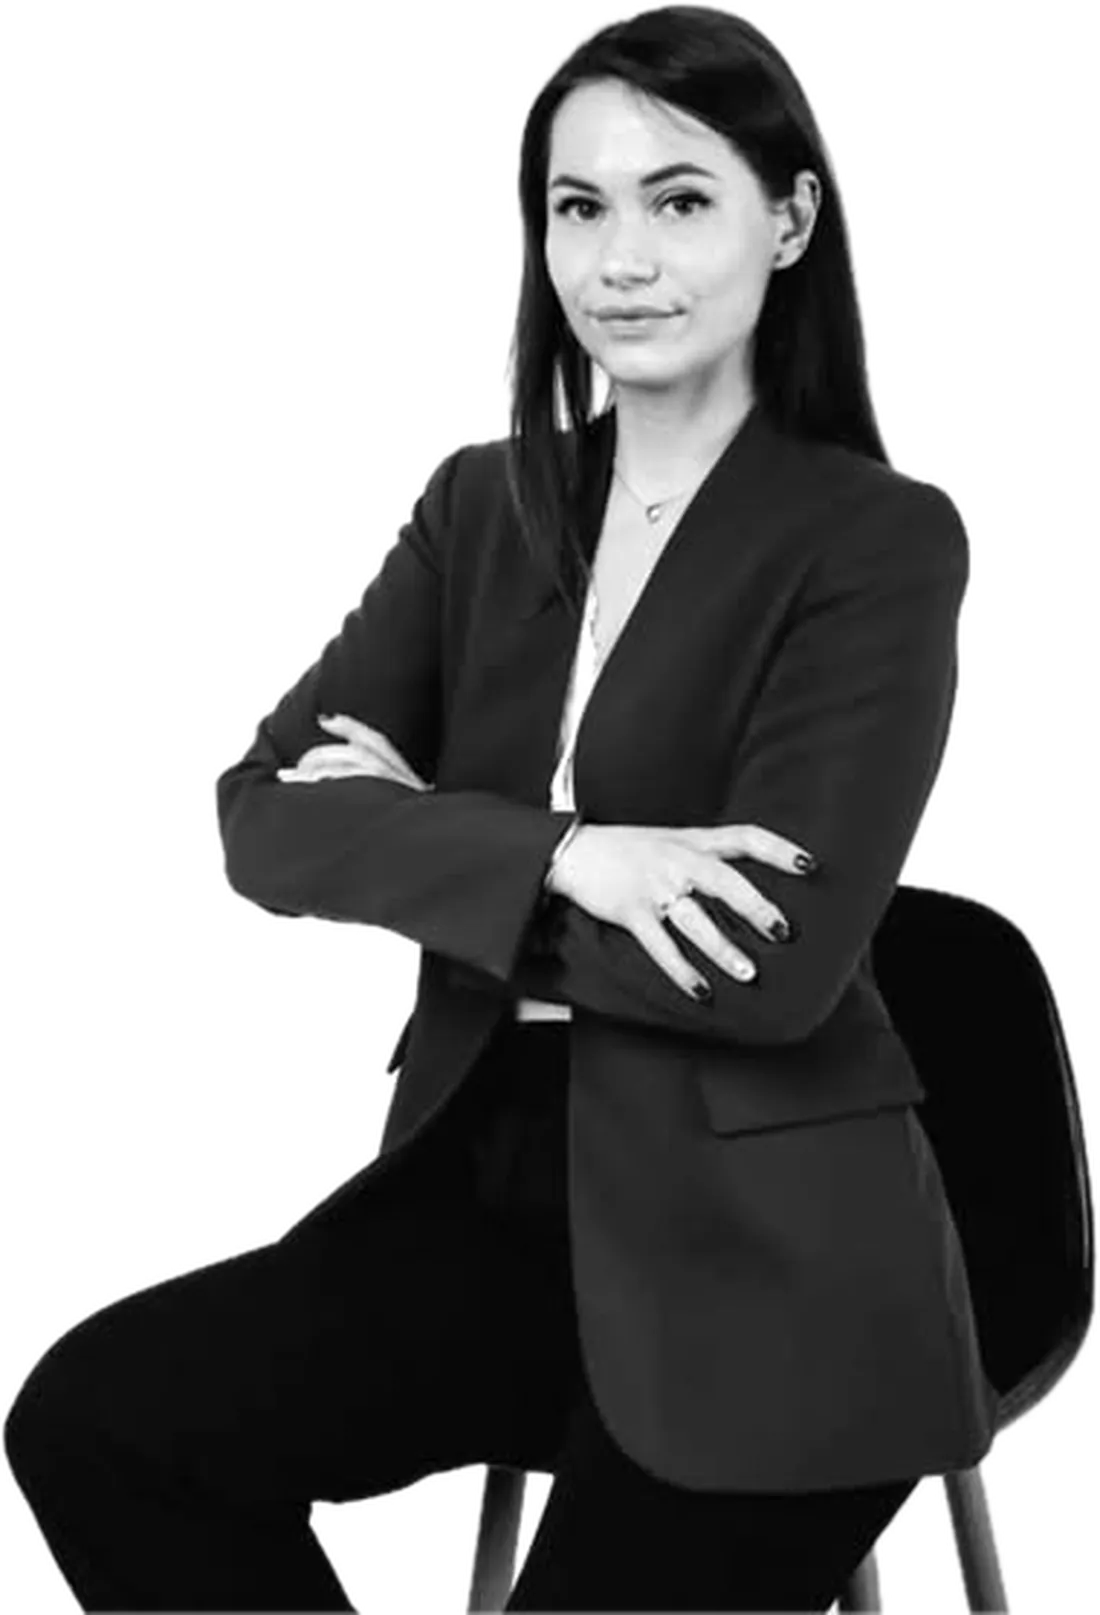
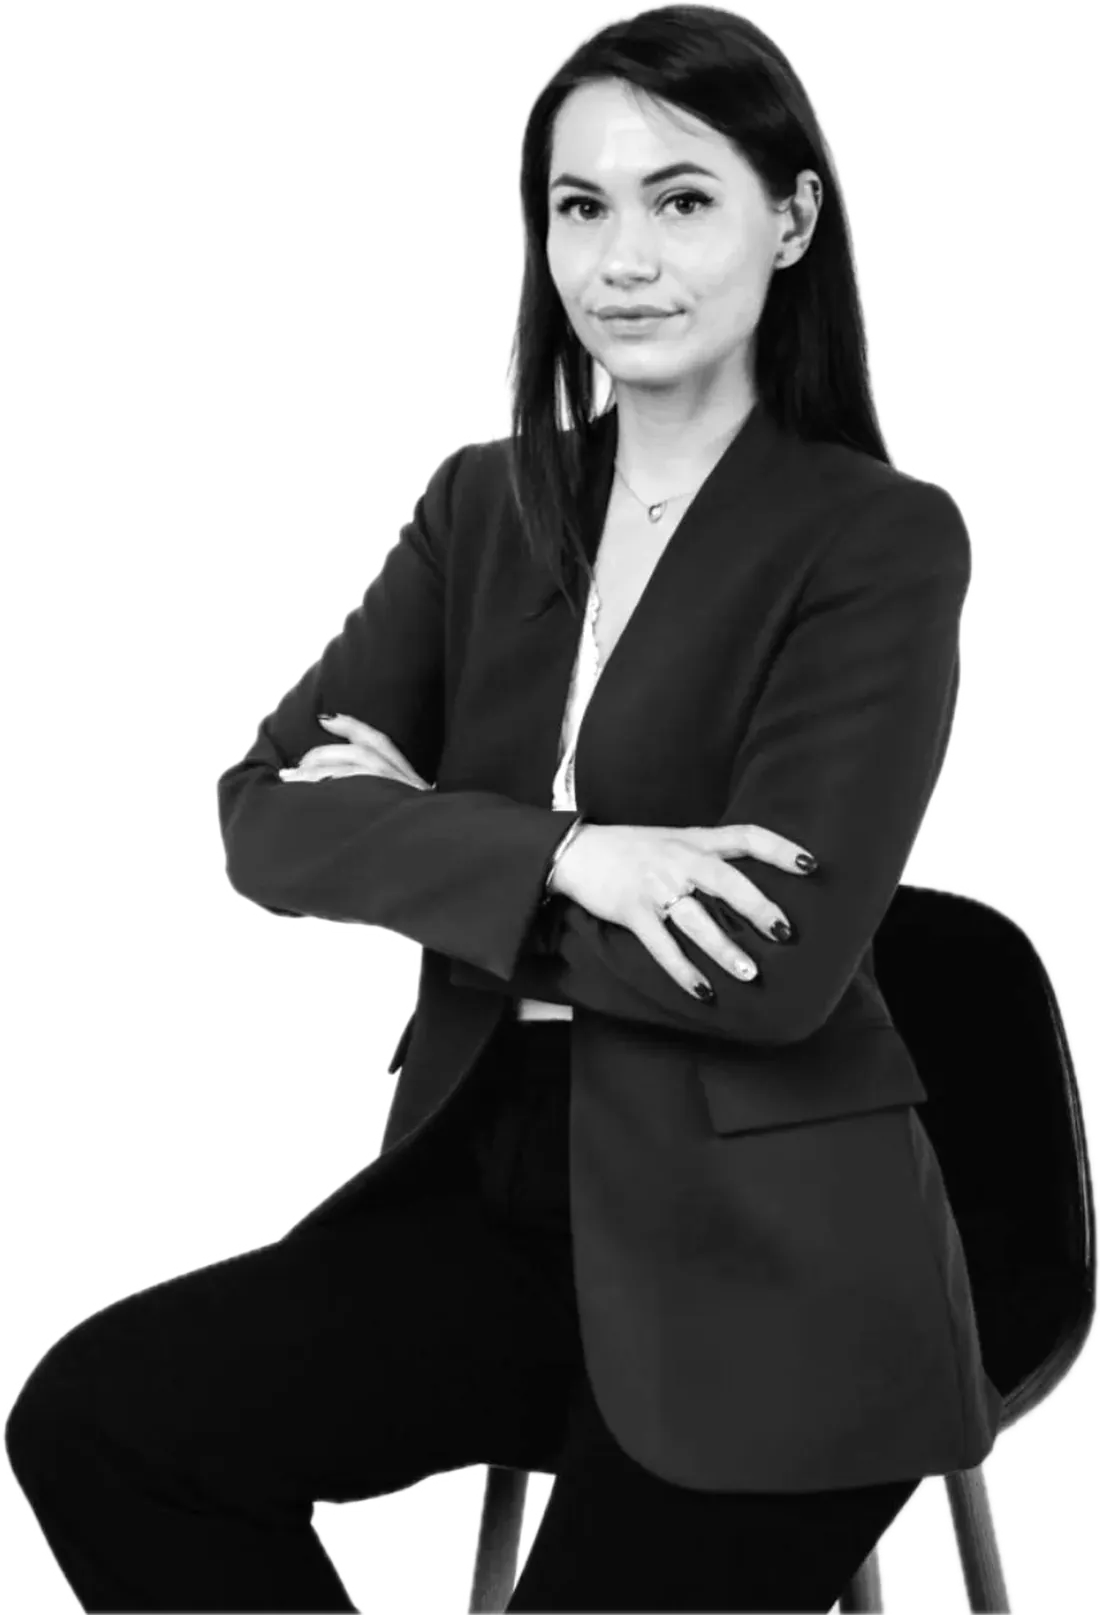
Лук'янчук: фото 1080px замість 480px

diff --git a/public/lukyanchuk/index.html b/public/lukyanchuk/index.html
@@ -23,7 +23,7 @@
   <link rel="preconnect" href="https://fonts.gstatic.com" crossorigin>
   <link rel="stylesheet" href="https://fonts.googleapis.com/css2?family=Onest:wght@400;500;600&display=swap">
   <link rel="preload" as="image" href="/img/leads/lukyanchuk/cut-1100.webp" imagesrcset="/img/leads/lukyanchuk/cut-700.webp 700w, /img/leads/lukyanchuk/cut-1100.webp 1100w" imagesizes="(min-width: 1024px) 470px, 92vw">
-  <link rel="stylesheet" href="/css/style.css?v=1795697873">
+  <link rel="stylesheet" href="/css/style.css?v=1795698091">
   <script type="application/ld+json">{"@context": "https://schema.org", "@type": "Attorney", "name": "Вікторія Лук'янчук", "url": "https://advokat-site.pages.dev/lukyanchuk/", "telephone": "+380989915552", "address": {"@type": "PostalAddress", "streetAddress": "БЦ «Словацький», каб. 220", "addressLocality": "Рівне", "addressCountry": "UA"}, "areaServed": "Рівне", "knowsAbout": ["військові справи", "сімейні справи"], "image": "https://advokat-site.pages.dev/img/leads/lukyanchuk/cut-1100.webp"}</script>
 </head>
 <body>
@@ -441,6 +441,6 @@
     <button type="button" data-font="mix">Мікс</button>
   </div>
 
-  <script src="/js/main.js?v=1795697873" defer></script>
+  <script src="/js/main.js?v=1795698091" defer></script>
 </body>
 </html>
